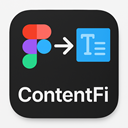
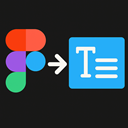
changed name to Contefi

diff --git a/dist-package/ui.html b/dist-package/ui.html
@@ -1127,7 +1127,7 @@
 
 <!-- Read Mode View -->
 <div class="container view" id="read-view">
-  <h2>✨ ContentFi</h2>
+  <h2>✨ ConteFi</h2>
   <div class="subtitle">Contentful-powered translation magic</div>
 
   <div class="stats">

diff --git a/ui.html b/ui.html
@@ -1127,7 +1127,7 @@
 
 <!-- Read Mode View -->
 <div class="container view" id="read-view">
-  <h2>✨ ContentFi</h2>
+  <h2>✨ ConteFi</h2>
   <div class="subtitle">Contentful-powered translation magic</div>
 
   <div class="stats">

diff --git a/code.ts b/code.ts
@@ -1,4 +1,4 @@
-// ContentFi - Figma plugin for Contentful-based translations
+// ConteFi - Figma plugin for Contentful-based translations
 
 figma.showUI(__html__, { width: 900, height: 500, themeColors: true });
 

diff --git a/DISTRIBUTION.md b/DISTRIBUTION.md
@@ -1,4 +1,4 @@
-# ContentFi - Distribution Guide
+# ConteFi - Distribution Guide
 
 ## For Testers: Installation Instructions
 
@@ -10,17 +10,17 @@
 
 1. **Download the plugin files**
    - Extract the ZIP file to a folder on your computer
-   - Example: `C:\FigmaPlugins\ContentFi\`
+   - Example: `C:\FigmaPlugins\ConteFi\`
 
 2. **Import into Figma**
    - Open Figma Desktop app
    - Go to: `Plugins` → `Development` → `Import plugin from manifest...`
-   - Navigate to your ContentFi folder
+   - Navigate to your ConteFi folder
    - Select `manifest.json`
    - Click "Open"
 
 3. **Using the plugin**
-   - The plugin will appear in: `Plugins` → `Development` → `ContentFi`
+   - The plugin will appear in: `Plugins` → `Development` → `ConteFi`
    - Click it to launch
 
 ### Configuration
@@ -73,10 +73,10 @@ cp DISTRIBUTION.md dist-package/README.md
 
 # 4. Create ZIP (optional)
 # On Windows PowerShell:
-Compress-Archive -Path dist-package/* -DestinationPath ContentFi-v1.0.zip
+Compress-Archive -Path dist-package/* -DestinationPath ConteFi-v1.0.zip
 
 # On Mac/Linux:
-zip -r ContentFi-v1.0.zip dist-package/
+zip -r ConteFi-v1.0.zip dist-package/
 ```
 
 ### Updating the Plugin

diff --git a/dist-package/README.md b/dist-package/README.md
@@ -1,4 +1,4 @@
-# ContentFi - Distribution Guide
+# ConteFi - Distribution Guide
 
 ## For Testers: Installation Instructions
 
@@ -10,17 +10,17 @@
 
 1. **Download the plugin files**
    - Extract the ZIP file to a folder on your computer
-   - Example: `C:\FigmaPlugins\ContentFi\`
+   - Example: `C:\FigmaPlugins\ConteFi\`
 
 2. **Import into Figma**
    - Open Figma Desktop app
    - Go to: `Plugins` → `Development` → `Import plugin from manifest...`
-   - Navigate to your ContentFi folder
+   - Navigate to your ConteFi folder
    - Select `manifest.json`
    - Click "Open"
 
 3. **Using the plugin**
-   - The plugin will appear in: `Plugins` → `Development` → `ContentFi`
+   - The plugin will appear in: `Plugins` → `Development` → `ConteFi`
    - Click it to launch
 
 ### Configuration
@@ -73,10 +73,10 @@ cp DISTRIBUTION.md dist-package/README.md
 
 # 4. Create ZIP (optional)
 # On Windows PowerShell:
-Compress-Archive -Path dist-package/* -DestinationPath ContentFi-v1.0.zip
+Compress-Archive -Path dist-package/* -DestinationPath ConteFi-v1.0.zip
 
 # On Mac/Linux:
-zip -r ContentFi-v1.0.zip dist-package/
+zip -r ConteFi-v1.0.zip dist-package/
 ```
 
 ### Updating the Plugin

diff --git a/ICON-GUIDE.md b/ICON-GUIDE.md
@@ -1,4 +1,4 @@
-# ContentFi Plugin Icons Guide
+# ConteFi Plugin Icons Guide
 
 ## Icon Requirements
 
@@ -13,8 +13,8 @@
 
 ## Design Tips
 
-### For ContentFi Plugin
-Since ContentFi integrates with Contentful CMS, consider:
+### For ConteFi Plugin
+Since ConteFi integrates with Contentful CMS, consider:
 - Using a combination of content/document icon with connectivity elements
 - Incorporating Contentful's brand colors if appropriate
 - Keeping it simple and recognizable at small sizes
@@ -47,14 +47,14 @@ The manifest already has the menu configuration. Once you add the icon files, up
 
 ```json
 {
-  "name": "ContentFi",
+  "name": "ConteFi",
   "version": "1.0.0",
   "id": "1558089998326222257",
   "api": "1.0.0",
   "main": "code.js",
   "menu": [
     {
-      "name": "ContentFi",
+      "name": "ConteFi",
       "command": "open"
     }
   ],
@@ -101,7 +101,7 @@ When exporting from design tools:
 
 ## Example Icon Concept
 
-For ContentFi, you could combine:
+For ConteFi, you could combine:
 - 📄 Document/content icon
 - 🔗 Connection/link symbol
 - 🎨 Figma-style design aesthetic

diff --git a/KNOWLEDGE-BASE.md b/KNOWLEDGE-BASE.md
@@ -1,8 +1,8 @@
-# ContentFi - Figma Plugin Knowledge Base
+# ConteFi - Figma Plugin Knowledge Base
 
 ## 📋 Overview
 
-**ContentFi** is a Figma plugin that integrates with Contentful CMS to manage translations and content directly within Figma designs. It enables designers to apply translations to text layers, preview content from Contentful, and write back translation keys to Contentful.
+**ConteFi** is a Figma plugin that integrates with Contentful CMS to manage translations and content directly within Figma designs. It enables designers to apply translations to text layers, preview content from Contentful, and write back translation keys to Contentful.
 
 ### Key Features
 - 🌍 **Multi-language Translation**: Apply translations from Contentful to Figma text nodes
@@ -18,7 +18,7 @@
 
 ### File Structure
 ```
-ContentFi/
+ConteFi/
 ├── manifest.json          # Plugin manifest (metadata, permissions)
 ├── code.ts               # Main plugin logic (TypeScript source)
 ├── code.js               # Compiled JavaScript (generated from code.ts)

diff --git a/docs/SETTINGS-GUIDE.md b/docs/SETTINGS-GUIDE.md
@@ -2,7 +2,7 @@
 
 ## 📝 Overview
 
-ContentFi now includes a **Settings Screen** where you can configure your Contentful connection using JSON. This makes the plugin flexible and reusable across different projects and Contentful setups.
+ConteFi now includes a **Settings Screen** where you can configure your Contentful connection using JSON. This makes the plugin flexible and reusable across different projects and Contentful setups.
 
 ---
 

diff --git a/docs/IMPLEMENTATION-SUMMARY.md b/docs/IMPLEMENTATION-SUMMARY.md
@@ -2,7 +2,7 @@
 
 ## ✅ Implementation Complete
 
-All OAuth 2.0 integration components have been successfully implemented for the ContentFi Figma plugin.
+All OAuth 2.0 integration components have been successfully implemented for the ConteFi Figma plugin.
 
 ---
 

diff --git a/CODE-REVIEW-BULLETPROOFING.md b/CODE-REVIEW-BULLETPROOFING.md
@@ -1,4 +1,4 @@
-# Code Review: Bulletproofing ContentFi
+# Code Review: Bulletproofing ConteFi
 
 ## Executive Summary
 

diff --git a/docs/CODE_REVIEW.md b/docs/CODE_REVIEW.md
@@ -1,4 +1,4 @@
-# Code Review - ContentFi
+# Code Review - ConteFi
 
 ## Critical Issues Found & Fixed
 
